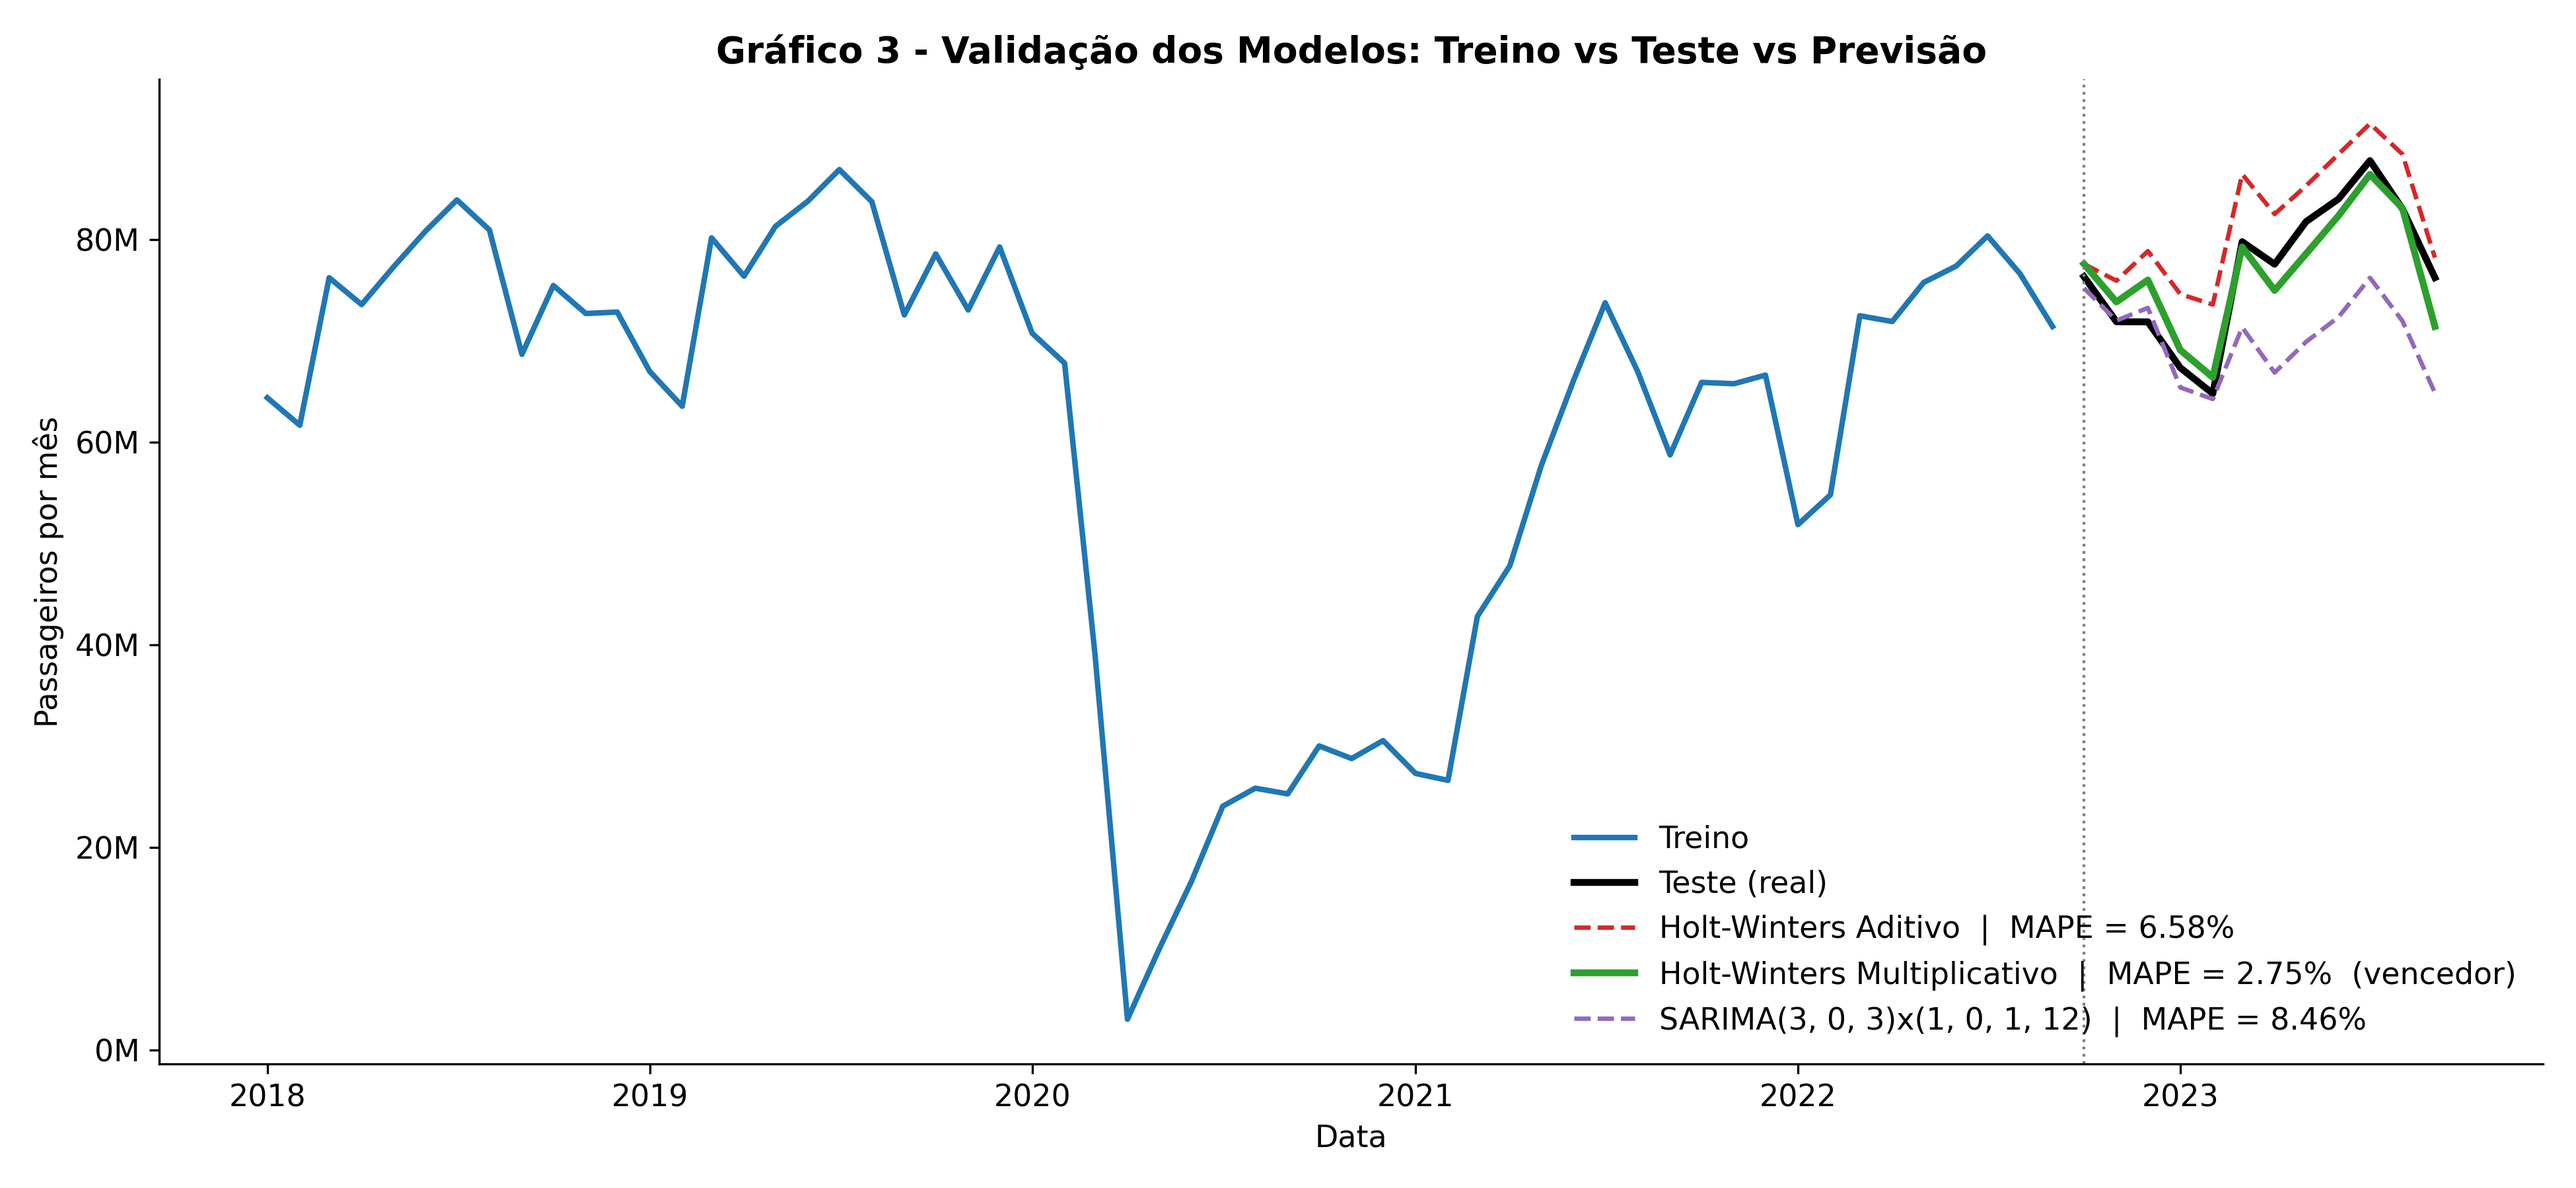
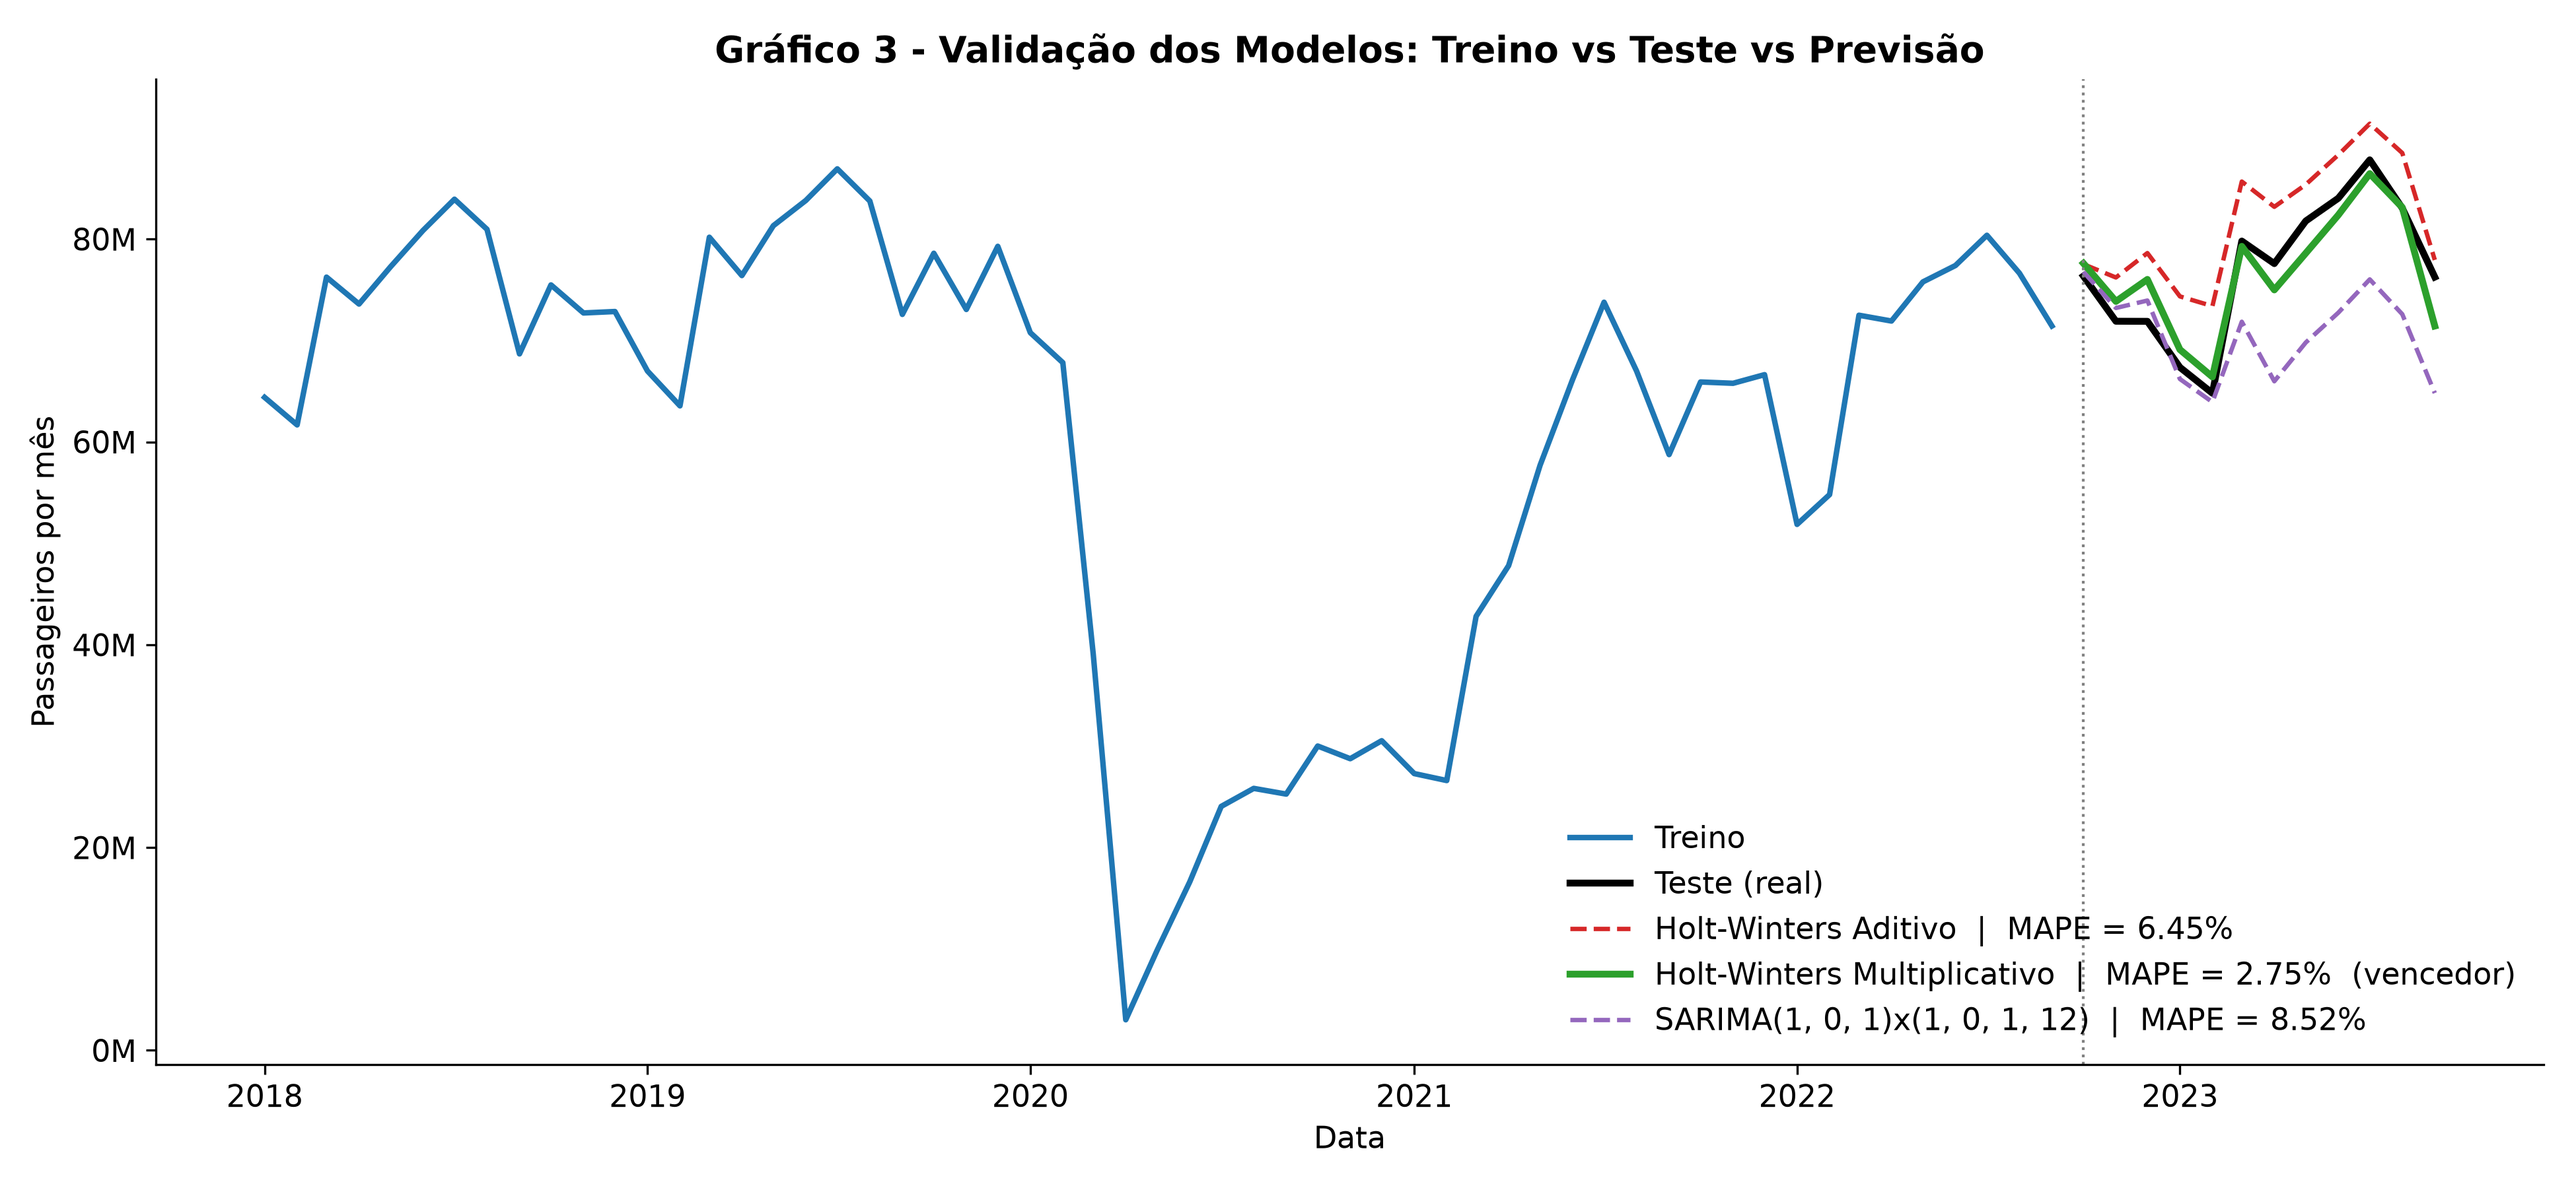
Add analise exploratoria, graficos 1 e 2

diff --git a/src/analise_exploratoria.py b/src/analise_exploratoria.py
@@ -1,0 +1,127 @@
+"""
+Projeto 2 (C11 - Series Temporais) - Grupo 17
+Parte: Leitura/Tratamento dos Dados, Grafico 1 (serie historica) e
+       Grafico 2 (decomposicao) para responder ao Slide 4
+
+Etapas:
+  1. Carrega o CSV e trata os dados (separador de milhar, indice datetime, frequencia mensal)
+  2. Checagens de qualidade: nulos, duplicados, meses faltando
+  3. Grafico 1: serie temporal historica completa (Slide 3)
+  4. Decomposicao multiplicativa com period=12 (Grafico 2) e estatisticas de apoio ao Slide 4
+  5. Imprime os numeros usados nas respostas de tendencia, sazonalidade e ciclos
+
+Execucao (a partir da raiz do projeto):
+    python src/analise_exploratoria.py
+"""
+
+import warnings
+from pathlib import Path
+
+import matplotlib.pyplot as plt
+import matplotlib.ticker as mticker
+import pandas as pd
+from statsmodels.tsa.seasonal import seasonal_decompose
+
+warnings.filterwarnings("ignore")
+
+ROOT = Path(__file__).resolve().parents[1]
+DATA = ROOT / "data" / "raw" / "air traffic.csv"
+OUT = ROOT / "outputs"
+FIG = OUT / "figures"
+FIG.mkdir(parents=True, exist_ok=True)
+
+SEASON = 12
+AZUL, VERMELHO, CINZA = "#0072C6", "#d62728", "#555555"  # azul proximo ao do template Inatel
+
+plt.rcParams.update({"figure.dpi": 120, "savefig.dpi": 300, "font.size": 13,
+                     "axes.spines.top": False, "axes.spines.right": False})
+milhoes = mticker.FuncFormatter(lambda x, _: f"{x / 1e6:.0f}M")
+
+
+# 1. Carregamento e tratamento ----------------------------------------------
+# Os numeros vem com virgula como separador de milhar ("43,032,450"),
+# entao thousands="," faz o pandas ler como inteiro.
+df = pd.read_csv(DATA, thousands=",")
+df.index = pd.to_datetime(dict(year=df["Year"], month=df["Month"], day=1))
+df = df.sort_index()
+
+# 2. Checagens de qualidade -------------------------------------------------
+print("=== QUALIDADE DOS DADOS ===")
+print(f"Linhas: {len(df)} | Colunas: {df.shape[1]}")
+print(f"Valores nulos: {int(df.isna().sum().sum())}")
+print(f"Meses duplicados: {int(df.index.duplicated().sum())}")
+
+serie = df["Pax"].asfreq("MS")  # frequencia mensal (inicio do mes)
+assert serie.isna().sum() == 0, "Serie com meses faltando"
+print(f"Periodo: {serie.index.min():%m/%Y} a {serie.index.max():%m/%Y} ({len(serie)} meses, sem lacunas)")
+print(f"Minimo: {serie.min() / 1e6:.1f}M em {serie.idxmin():%m/%Y} | "
+      f"Maximo: {serie.max() / 1e6:.1f}M em {serie.idxmax():%m/%Y}")
+
+# 3. Grafico 1 - Serie temporal historica (Slide 3) --------------------------
+fig, ax = plt.subplots(figsize=(13.33, 6.2))
+ax.axvspan(pd.Timestamp("2008-01-01"), pd.Timestamp("2009-12-31"), color="#f0b27a", alpha=0.25)
+ax.axvspan(pd.Timestamp("2020-03-01"), pd.Timestamp("2021-12-31"), color="#f1948a", alpha=0.25)
+ax.plot(serie, color=AZUL, lw=2.4)
+
+ax.annotate("Crise financeira\n2008-2009", xy=(pd.Timestamp("2009-01-01"), 106e6),
+            ha="center", va="top", fontsize=12, color="#a04000")
+ax.annotate("Mínimo: 3,0M\n(abr/2020, COVID-19)", xy=(serie.idxmin(), serie.min()),
+            xytext=(pd.Timestamp("2016-06-01"), 9e6), fontsize=12, color=VERMELHO, ha="center",
+            arrowprops=dict(arrowstyle="->", color=VERMELHO, lw=1.5))
+ax.annotate("Máximo: 87,8M\n(jul/2023)", xy=(serie.idxmax(), serie.max()),
+            xytext=(pd.Timestamp("2021-06-01"), 100e6), fontsize=12, color=CINZA, ha="center",
+            arrowprops=dict(arrowstyle="->", color=CINZA, lw=1.5))
+ax.annotate("COVID-19", xy=(pd.Timestamp("2021-03-01"), 14e6), ha="center", va="top",
+            fontsize=12, color="#922b21")
+
+ax.set_title("Passageiros Aéreos Mensais nos EUA (01/2003 a 09/2023)", weight="bold", fontsize=17)
+ax.set_xlabel("Data", fontsize=14); ax.set_ylabel("Passageiros por mês", fontsize=14)
+ax.set_ylim(0, 112e6); ax.yaxis.set_major_formatter(milhoes)
+ax.grid(axis="y", alpha=0.25)
+fig.tight_layout(); fig.savefig(FIG / "grafico1_serie_historica.png"); plt.close(fig)
+
+# 4. Decomposicao (Grafico 2) -------------------------------------------------
+# Modelo multiplicativo: a amplitude sazonal cresce junto com o nivel da serie e
+# e o mesmo tipo de sazonalidade que o Holt-Winters vencedor (multiplicativo) assume.
+dec = seasonal_decompose(serie, model="multiplicative", period=SEASON)
+
+fig, axes = plt.subplots(4, 1, figsize=(13.33, 9), sharex=True)
+paineis = [("Observada", dec.observed, AZUL), ("Tendência", dec.trend, VERMELHO),
+           ("Sazonalidade", dec.seasonal, "#2ca02c"), ("Resíduo", dec.resid, "#7f7f7f")]
+for ax, (nome, y, cor) in zip(axes, paineis):
+    if nome == "Resíduo":
+        ax.plot(y, color=cor, lw=1.2, marker="o", ms=2.5, ls="none"); ax.axhline(1, color="black", lw=0.8)
+    else:
+        ax.plot(y, color=cor, lw=1.8)
+    ax.set_ylabel(nome, fontsize=13, weight="bold")
+    ax.yaxis.set_major_formatter(milhoes if nome in ("Observada", "Tendência")
+                                 else mticker.FormatStrFormatter("%.2f"))
+axes[0].set_title("Gráfico 2 - Decomposição Multiplicativa da Série (period = 12)", weight="bold", fontsize=16)
+axes[-1].set_xlabel("Data", fontsize=13)
+fig.tight_layout(); fig.savefig(FIG / "grafico2_decomposicao.png"); plt.close(fig)
+
+# 5. Numeros de apoio ao Slide 4 ----------------------------------------------
+print("\n=== TENDENCIA ===")
+anual = serie.groupby(serie.index.year).sum() / 1e6
+print((anual.round(1)).to_string())
+cagr = (anual[2019] / anual[2003]) ** (1 / 16) - 1
+print(f"Crescimento medio anual 2003-2019: {cagr:.2%} a.a. | 2003->2019: {anual[2019] / anual[2003] - 1:.0%}")
+
+print("\n=== SAZONALIDADE (indice sazonal medio por mes; 1,00 = media do ano) ===")
+idx = dec.seasonal.groupby(dec.seasonal.index.month).mean()
+meses = ["jan", "fev", "mar", "abr", "mai", "jun", "jul", "ago", "set", "out", "nov", "dez"]
+for m, v in idx.items():
+    print(f"{meses[m - 1]}: {v:.3f} ({v - 1:+.1%})")
+pre = seasonal_decompose(serie[:"2019-12"], model="multiplicative", period=SEASON)
+r, s_ = pre.resid.dropna(), pre.seasonal
+forca = max(0, 1 - r.var() / (r + s_.loc[r.index]).var())
+print(f"Forca da sazonalidade (pre-COVID, 0 a 1): {forca:.2f}")
+
+print("\n=== CICLOS ===")
+print(f"2007: {anual[2007]:.1f}M -> 2009: {anual[2009]:.1f}M ({anual[2009] / anual[2007] - 1:+.1%}); "
+      f"volume de 2007 so foi superado em {int(anual[anual > anual[2007]].index[anual[anual > anual[2007]].index > 2009][0])}")
+print(f"2019: {anual[2019]:.1f}M -> 2020: {anual[2020]:.1f}M ({anual[2020] / anual[2019] - 1:+.1%})")
+print(f"Abr/2020 vs Abr/2019: {serie['2020-04-01'] / serie['2019-04-01'] - 1:+.1%}")
+print(f"Jul/2023 vs Jul/2019: {serie['2023-07-01'] / serie['2019-07-01'] - 1:+.1%}")
+print(f"2022 vs 2019 (ano): {anual[2022] / anual[2019] - 1:+.1%}")
+print(f"\nFiguras salvas em {FIG}")

diff --git a/README.md b/README.md
@@ -10,31 +10,22 @@ Gabriel Machado Pivoto, Otávio Augusto Silva Lima e Hugo Henrique Reis Camilo
 python3 -m venv .venv
 source .venv/bin/activate          # no Windows: .venv\Scripts\activate
 pip install -r requirements.txt
-python src/modelagem_previsao.py
+python src/analise_exploratoria.py  
+python src/modelagem_previsao.py     
 ```
 
 O script leva menos de 1 minuto e gera todos os arquivos de `outputs/`. Não é preciso rodar para fazer os slides, porque os gráficos e tabelas já estão no repositório.
 
 Se aparecer o erro `numpy.dtype size changed`, rode `pip install "numpy<2"`, porque o pmdarima não funciona com o numpy 2.
 
-## O que vai em cada slide
-
-| Slide | Arquivo | Responsável |
-|---|---|---|
-| 3 | Gráfico 1: série histórica | Gabriel |
-| 4 | Gráfico 2: decomposição e respostas sobre tendência, sazonalidade e ciclos | Gabriel |
-| 5 | `outputs/figures/grafico4_historico_previsao.png` (gráfico principal) | Otávio (pronto) |
-| 5 | `outputs/figures/grafico3_validacao_modelos.png` (apoio, se couber) | Otávio (pronto) |
-| 5 | Texto: `docs/slide5_justificativa_modelo.md` (versão curta no topo) | Otávio (pronto) |
-| 6 | Conclusões e insights de negócio | Hugo |
-
 ## Estrutura
 
 ```
 data/raw/air traffic.csv         dataset original
+src/analise_exploratoria.py       tratamento dos dados, Gráfico 1 e decomposição (Gráfico 2)
 src/modelagem_previsao.py         treino/teste, Holt-Winters, SARIMA, MAPE e previsão de 24 meses
 outputs/figures/                  gráficos em 300 dpi
 outputs/metricas_modelos.csv      MAPE de cada modelo
 outputs/previsao_24_meses.csv     previsão mês a mês com intervalo de 95%
-docs/                             textos prontos para os slides
+
 ```
